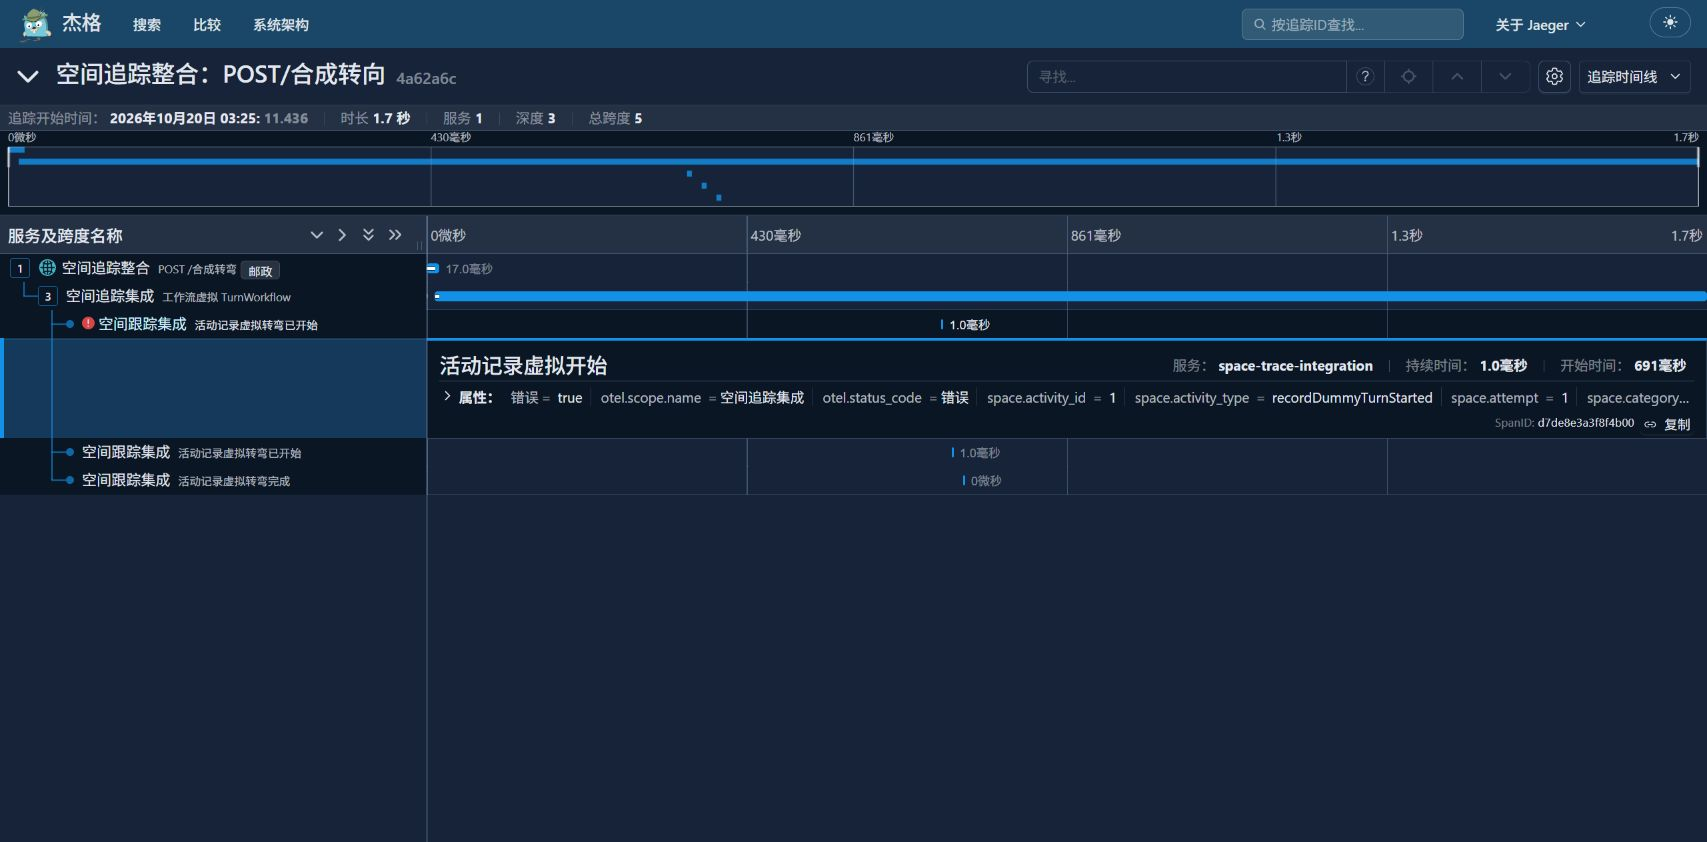
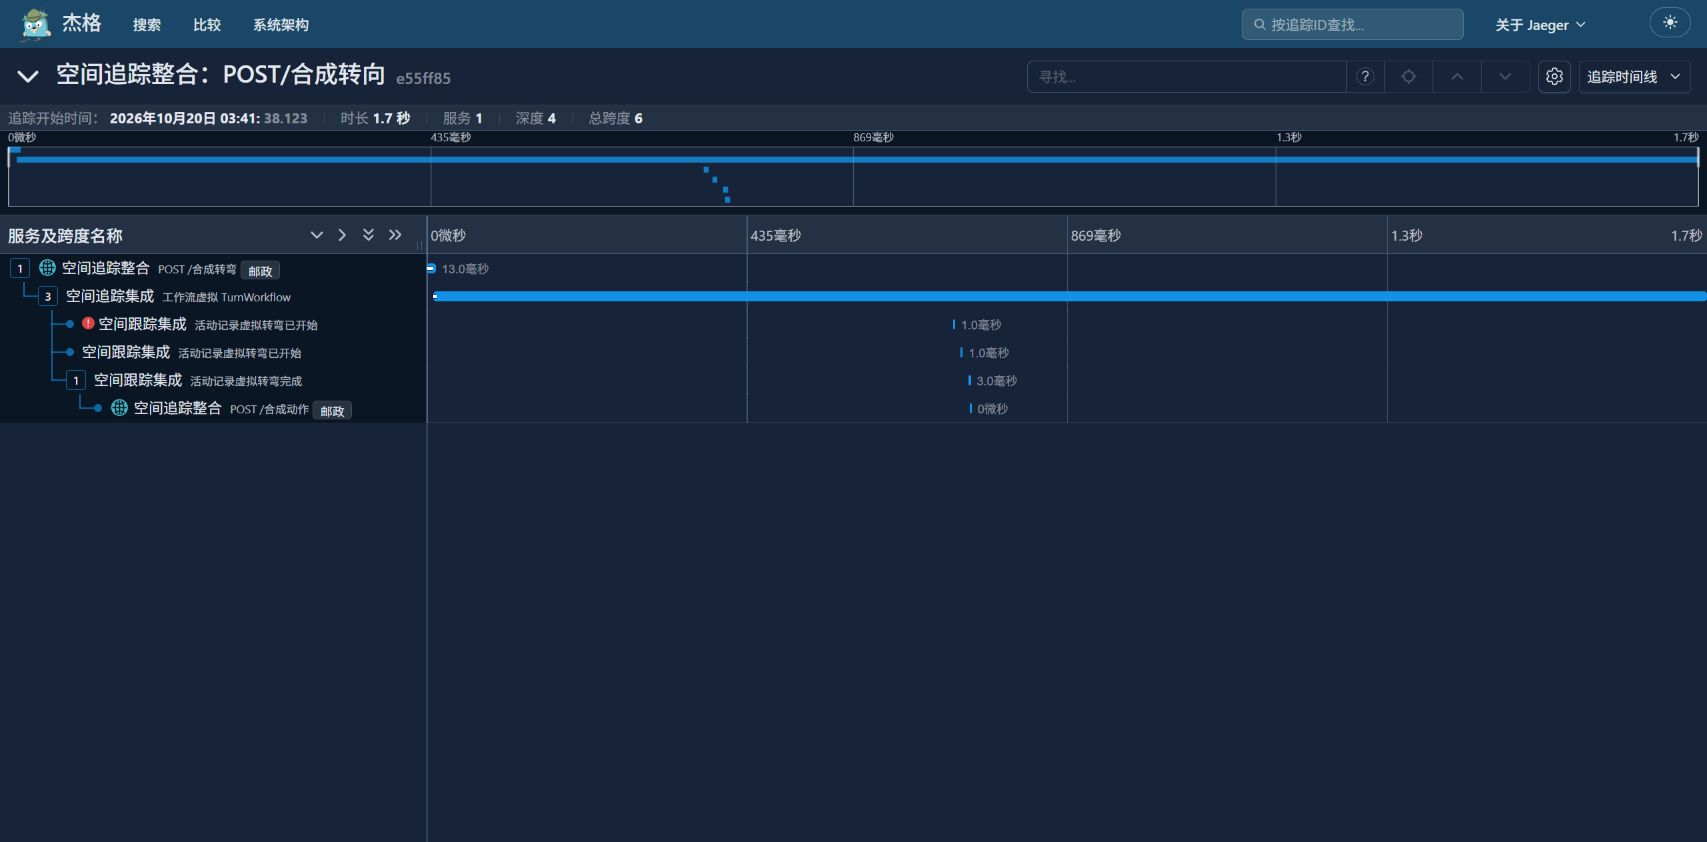
Propagate the exported activity span to internal HTTP calls

diff --git a/apps/worker/tests/workflow-tracing.test.ts b/apps/worker/tests/workflow-tracing.test.ts
@@ -8,7 +8,7 @@ import { TestWorkflowEnvironment } from "@temporalio/testing";
 import { Worker, bundleWorkflowCode, DefaultLogger, Runtime, type WorkflowBundle } from "@temporalio/worker";
 import { createOtlpSpanExporter, type SpanExporter } from "@space/runtime";
 import { workflowTracingOptions, workerSpanAttributes } from "../src/workflow-tracing-worker.js";
-import { createActivityObservabilityInterceptors } from "../src/activity-observability.js";
+import { childTraceparent, createActivityObservabilityInterceptors } from "../src/activity-observability.js";
 import { traceInput, workflowSpanId } from "../src/workflow-trace-context.js";
 import { createRequestTraceContext, TraceContextRegistry, withTurnTraceparent, workflowCorrelationMemo } from "../../api/src/trace-context.js";
 
@@ -91,9 +91,15 @@ describe("connected Temporal tracing", () => {
 
   it("connects an actual HTTP request, production workflow, and each retry attempt; replay exports nothing", async () => {
     const queue = `trace-http-${++sequence}`; let attempts = 0; let handle: any;
-    const registry = new TraceContextRegistry(); let apiSpan: any;
+    const registry = new TraceContextRegistry(); let apiSpan: any; let actionSpan: any;
     const api = http.createServer(async (request, response) => {
       const context = createRequestTraceContext(request.headers.traceparent);
+      if (request.url === "/synthetic-action") {
+        actionSpan = { traceId: context.w3cTraceId, spanId: context.spanId, parentSpanId: context.parentSpanId,
+          name: "POST /synthetic-action", kind: 2, startTimeUnixNano: BigInt(Date.now()) * 1_000_000n,
+          endTimeUnixNano: BigInt(Date.now()) * 1_000_000n, attributes: { "http.request.method": "POST" }, error: false };
+        exporter.record(actionSpan); response.writeHead(202).end("{}"); return;
+      }
       registry.remember(turn.traceId, context);
       apiSpan = { traceId: context.w3cTraceId, spanId: context.spanId, parentSpanId: context.parentSpanId,
         name: "POST /synthetic-turn", kind: 2, startTimeUnixNano: BigInt(Date.now()) * 1_000_000n,
@@ -109,18 +115,25 @@ describe("connected Temporal tracing", () => {
     api.listen(0, "127.0.0.1"); await once(api, "listening");
     try { await worker(queue, {
       recordDummyTurnStarted: () => { if (++attempts === 1) throw Error(secret); },
-      recordDummyTurnCompleted: () => ({ status: "COMPLETED", message: secret })
+      recordDummyTurnCompleted: async () => {
+        const parent = childTraceparent(registry.lookup(turn.traceId)?.traceparent);
+        const response = await fetch(`http://127.0.0.1:${(api.address() as any).port}/synthetic-action`,
+          { method: "POST", headers: parent ? { traceparent: parent } : {} });
+        expect(response.status).toBe(202); return { status: "COMPLETED", message: secret };
+      }
     }, async () => {
       const response = await fetch(`http://127.0.0.1:${(api.address() as any).port}/synthetic-turn`, { method: "POST" });
       expect(response.status).toBe(202); expect(await handle.result()).toMatchObject({ status: "COMPLETED" });
       await exporter.flush(); const spans = emitted.filter(span => span.traceId === apiSpan.traceId);
-      expect(spans).toHaveLength(5);
+      expect(spans).toHaveLength(6);
       expect(new Set(spans.map(span => span.spanId)).size).toBe(spans.length);
       const root = spans.find(span => span.name === "workflow dummyTurnWorkflow");
       expect(root).toBeDefined(); expect(root.parentSpanId).toBe(apiSpan.spanId);
       const activities = spans.filter(span => span.name.startsWith("activity "));
       expect(activities).toHaveLength(3);
       for (const activity of activities) expect(activity.parentSpanId).toBe(root.spanId);
+      expect(actionSpan.traceId).toBe(apiSpan.traceId);
+      expect(actionSpan.parentSpanId).toBe(activities.find(span => span.name === "activity recordDummyTurnCompleted").spanId);
       const attributes = (span: any) => Object.fromEntries(span.attributes.map((a: any) => [a.key, a.value.intValue ?? a.value.stringValue]));
       expect(activities.filter(span => span.name === "activity recordDummyTurnStarted").map(span => attributes(span)["space.attempt"]).sort()).toEqual(["1", "2"]);
       expect(JSON.stringify(spans)).not.toContain(secret); expect(JSON.stringify(spans)).not.toContain("private.example");

diff --git a/apps/worker/src/activity-observability.ts b/apps/worker/src/activity-observability.ts
@@ -32,6 +32,7 @@ export type ActivityOutcome = "COMPLETED" | "FAILED_RESULT" | "FAILED" | "CANCEL
 
 interface ActivityObservation {
   reasonCode: string | null;
+  spanTraceparent?: string | null;
 }
 
 const observations = new AsyncLocalStorage<ActivityObservation>();
@@ -57,9 +58,14 @@ export function failureReasonScope<T>(execute: () => Promise<T>): { promise: Pro
   return { promise: observations.run(observation, execute), reasonCode: () => observation.reasonCode };
 }
 
-/** traceparent for an outbound call: same W3C trace, new span id; null if none. */
+/** Outbound parent: the active exported attempt, or the legacy context when unobserved. */
 export function childTraceparent(traceparent: string | null | undefined): string | null {
   const parsed = parseTraceparent(traceparent);
+  const active = observations.getStore()?.spanTraceparent;
+  const activeParent = parseTraceparent(active);
+  // The outbound HTTP request is a child of this exported activity attempt,
+  // not of a newly invented span that no collector will ever receive.
+  if (activeParent && (!parsed || activeParent.traceId === parsed.traceId)) return active!;
   if (!parsed) return null;
   let spanId = randomBytes(8).toString("hex");
   while (/^0+$/.test(spanId)) spanId = randomBytes(8).toString("hex");
@@ -175,7 +181,10 @@ export async function observeActivityExecution<T>(
   if (queueMs !== null) metrics.activityScheduleToStart.observe(labels, queueMs / 1000);
   metrics.activitiesInFlight.inc(labels);
   workerLog("info", "activity.started", { ...base, queueMs });
-  const observation: ActivityObservation = { reasonCode: null };
+  const parent = dependencies.spans ? parseTraceparent(dependencies.parentTraceparent) ?? activityTraceparent(args) : null;
+  const spanId = parent ? randomBytes(8).toString("hex") : null;
+  const observation: ActivityObservation = { reasonCode: null,
+    spanTraceparent: parent && spanId ? formatTraceparent(parent.traceId, spanId, parent.flags) : null };
 
   const finish = (outcome: ActivityOutcome, reasonCode: string | null, errorName: string | null) => {
     const durationMs = Math.max(0, now() - startedAt);
@@ -197,11 +206,10 @@ export async function observeActivityExecution<T>(
       queueMs,
       rssBytes: process.memoryUsage().rss
     });
-    const parent = dependencies.spans ? parseTraceparent(dependencies.parentTraceparent) ?? activityTraceparent(args) : null;
-    if (parent) {
+    if (parent && spanId) {
       try { dependencies.spans!.record({
         traceId: parent.traceId,
-        spanId: randomBytes(8).toString("hex"),
+        spanId,
         parentSpanId: parent.parentId,
         name: `activity ${activityType}`,
         startTimeUnixNano: BigInt(startedAt) * 1_000_000n,

diff --git a/docs/quality/observability.md b/docs/quality/observability.md
@@ -236,8 +236,10 @@ and a three-second POST timeout. Overflow and collector failures are counted by
   than a synthetic unexported child. Dot Goal and memory coordinators also put
   the request context into the starter memo without adding database columns.
 - **Worker:** worker logs read the trace ID from the activity input. Internal
-  room-action calls from the worker send a child `traceparent`, so the internal
-  API request joins the same trace.
+  room-action calls from an observed activity propagate that actual activity
+  attempt's span as `traceparent`, so the internal API SERVER span has an
+  exported parent rather than an invented intermediate ID. Async-local context
+  keeps concurrent activities separate.
 - **Workflow spans:** workflow interceptors read validated Temporal headers,
   falling back to input and memo. Activity and child-workflow headers carry the
   exact workflow span as parent, including across memory worker queues. Span IDs
@@ -282,7 +284,8 @@ SPACE_TRACE_PREVIEW_ENDPOINT=http://127.0.0.1:4318 npm test -w @space/worker -- 
 The fake collector asserts the real HTTP/Temporal span tree and optionally
 forwards that same synthetic OTLP JSON to this loopback-only preview endpoint.
 The synthetic Jaeger screenshot below shows the HTTP SERVER span, a completed production
-workflow and three activity attempts, including a failed attempt and its retry.
+workflow and three activity attempts, including a failed attempt and its retry,
+plus an internal HTTP request nested under the completing activity.
 
 ![Synthetic HTTP to Temporal trace in local Jaeger](../benchmarks/workflow-tracing-jaeger.png)
 
